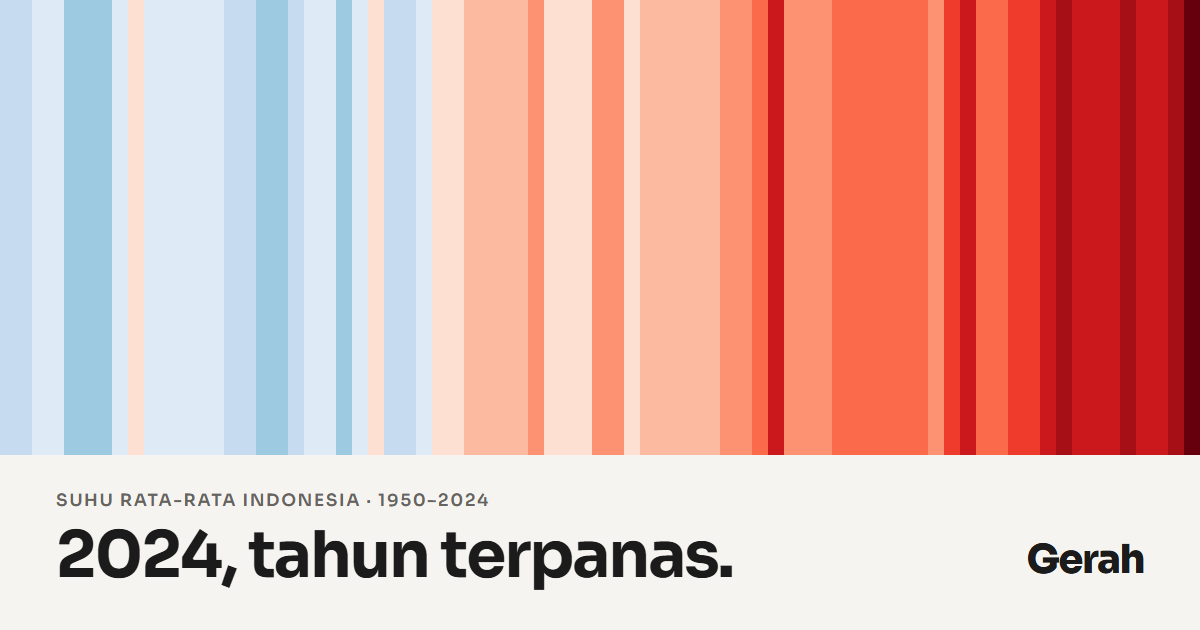
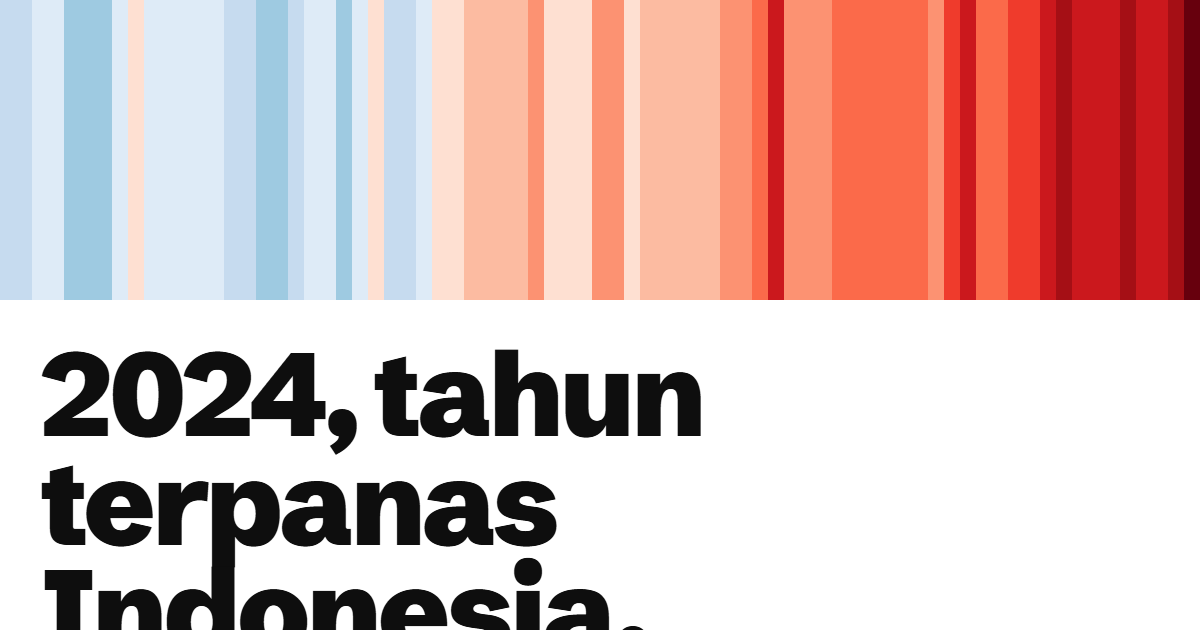
Tampilan baru: putih bersih, warna hanya dari garis hangat

diff --git a/src/gaya.css b/src/gaya.css
@@ -1,30 +1,17 @@
 :root {
+  /* putih bersih; satu-satunya warna di halaman datang dari garis hangat */
   color-scheme: light;
-  --kertas: #f6f4f0;
-  --kertas-2: #ece9e2;
-  --tinta: #1b1b1b;
-  --tinta-2: #45433f;
-  --samar: #67645e;
-  --garis: #d9d5cc;
-  --garis-kuat: #b5b0a5;
-  --aksen: #b3261e;
-  --sorot: #2f4fa3;
-  --judul: "Sora Variable", system-ui, sans-serif;
-  --huruf: "Source Sans 3 Variable", system-ui, sans-serif;
-}
-@media (prefers-color-scheme: dark) {
-  :root {
-    color-scheme: dark;
-    --kertas: #121212;
-    --kertas-2: #1c1c1c;
-    --tinta: #eeece8;
-    --tinta-2: #c6c3bd;
-    --samar: #9a968f;
-    --garis: #2c2c2c;
-    --garis-kuat: #444;
-    --aksen: #ff7a6b;
-    --sorot: #8fb0ff;
-  }
+  --kertas: #ffffff;
+  --kertas-2: #f2f2f2;
+  --tinta: #0e0e0e;
+  --tinta-2: #3d3d3d;
+  --samar: #5e5e5e;
+  --garis: #e2e2e2;
+  --garis-kuat: #0e0e0e;
+  --aksen: #b3121b;
+  --sorot: #08519c;
+  --judul: "Schibsted Grotesk Variable", "Arial Black", sans-serif;
+  --huruf: "Schibsted Grotesk Variable", system-ui, sans-serif;
 }
 
 *,
@@ -63,14 +50,15 @@ input {
 h1,
 h2 {
   font-family: var(--judul);
-  font-weight: 700;
-  letter-spacing: -0.03em;
+  font-weight: 900;
+  letter-spacing: -0.035em;
+  text-wrap: balance;
 }
 h1 {
   margin: 12px 0 0;
-  font-size: clamp(38px, 6.4vw, 80px);
-  line-height: 1.02;
-  max-width: 16ch;
+  font-size: clamp(44px, 8.6vw, 128px);
+  line-height: 0.92;
+  max-width: 14ch;
 }
 h2 {
   margin: 8px 0 0;
@@ -85,7 +73,7 @@ h2 em {
 /* ---------- garis hangat utama ---------- */
 .garis-utama {
   position: relative;
-  height: clamp(180px, 42vh, 440px);
+  height: clamp(220px, 58vh, 640px);
 }
 .garis-utama svg,
 .garis-kecil-lahir svg {
@@ -106,12 +94,12 @@ main,
   align-items: center;
   gap: 16px;
   padding: 16px 0;
-  border-bottom: 1px solid var(--garis-kuat);
+  border-bottom: 3px solid var(--garis-kuat);
 }
 .merek {
   text-decoration: none;
-  font: 800 26px/1 var(--judul);
-  letter-spacing: -0.04em;
+  font: 900 28px/1 var(--judul);
+  letter-spacing: -0.05em;
 }
 .kepala nav {
   display: flex;
@@ -146,7 +134,8 @@ main,
 }
 .angka-kunci strong {
   display: block;
-  font: 700 clamp(26px, 3vw, 36px) / 1.1 var(--judul);
+  font: 900 clamp(28px, 3.4vw, 42px) / 1 var(--judul);
+  letter-spacing: -0.03em;
   letter-spacing: -0.03em;
 }
 .angka-kunci span {

diff --git a/index.html b/index.html
@@ -17,8 +17,7 @@
     <meta property="og:image:height" content="630" />
     <meta name="twitter:card" content="summary_large_image" />
     <link rel="canonical" href="https://gerah.raffstw.my.id/" />
-    <meta name="theme-color" content="#f6f4f0" media="(prefers-color-scheme: light)" />
-    <meta name="theme-color" content="#121212" media="(prefers-color-scheme: dark)" />
+    <meta name="theme-color" content="#ffffff" />
     <link rel="icon" href="/ikon.svg" type="image/svg+xml" />
   </head>
   <body>

diff --git a/src/main.ts b/src/main.ts
@@ -1,5 +1,4 @@
-import "@fontsource-variable/sora";
-import "@fontsource-variable/source-sans-3";
+import "@fontsource-variable/schibsted-grotesk";
 import "./gaya.css";
 import { AKHIR, AWAL, BULAN, DIUNDUH, SUMBER, TAHUN, anomali, anomaliBulan, bertanda, desimal, nilai, rata, sejakLahir, trenPerDekade, urutTerpanas } from "./analisis";
 import { gambarBatang, gambarGaris, gambarGarisKecil, gambarKalender } from "./vis";
